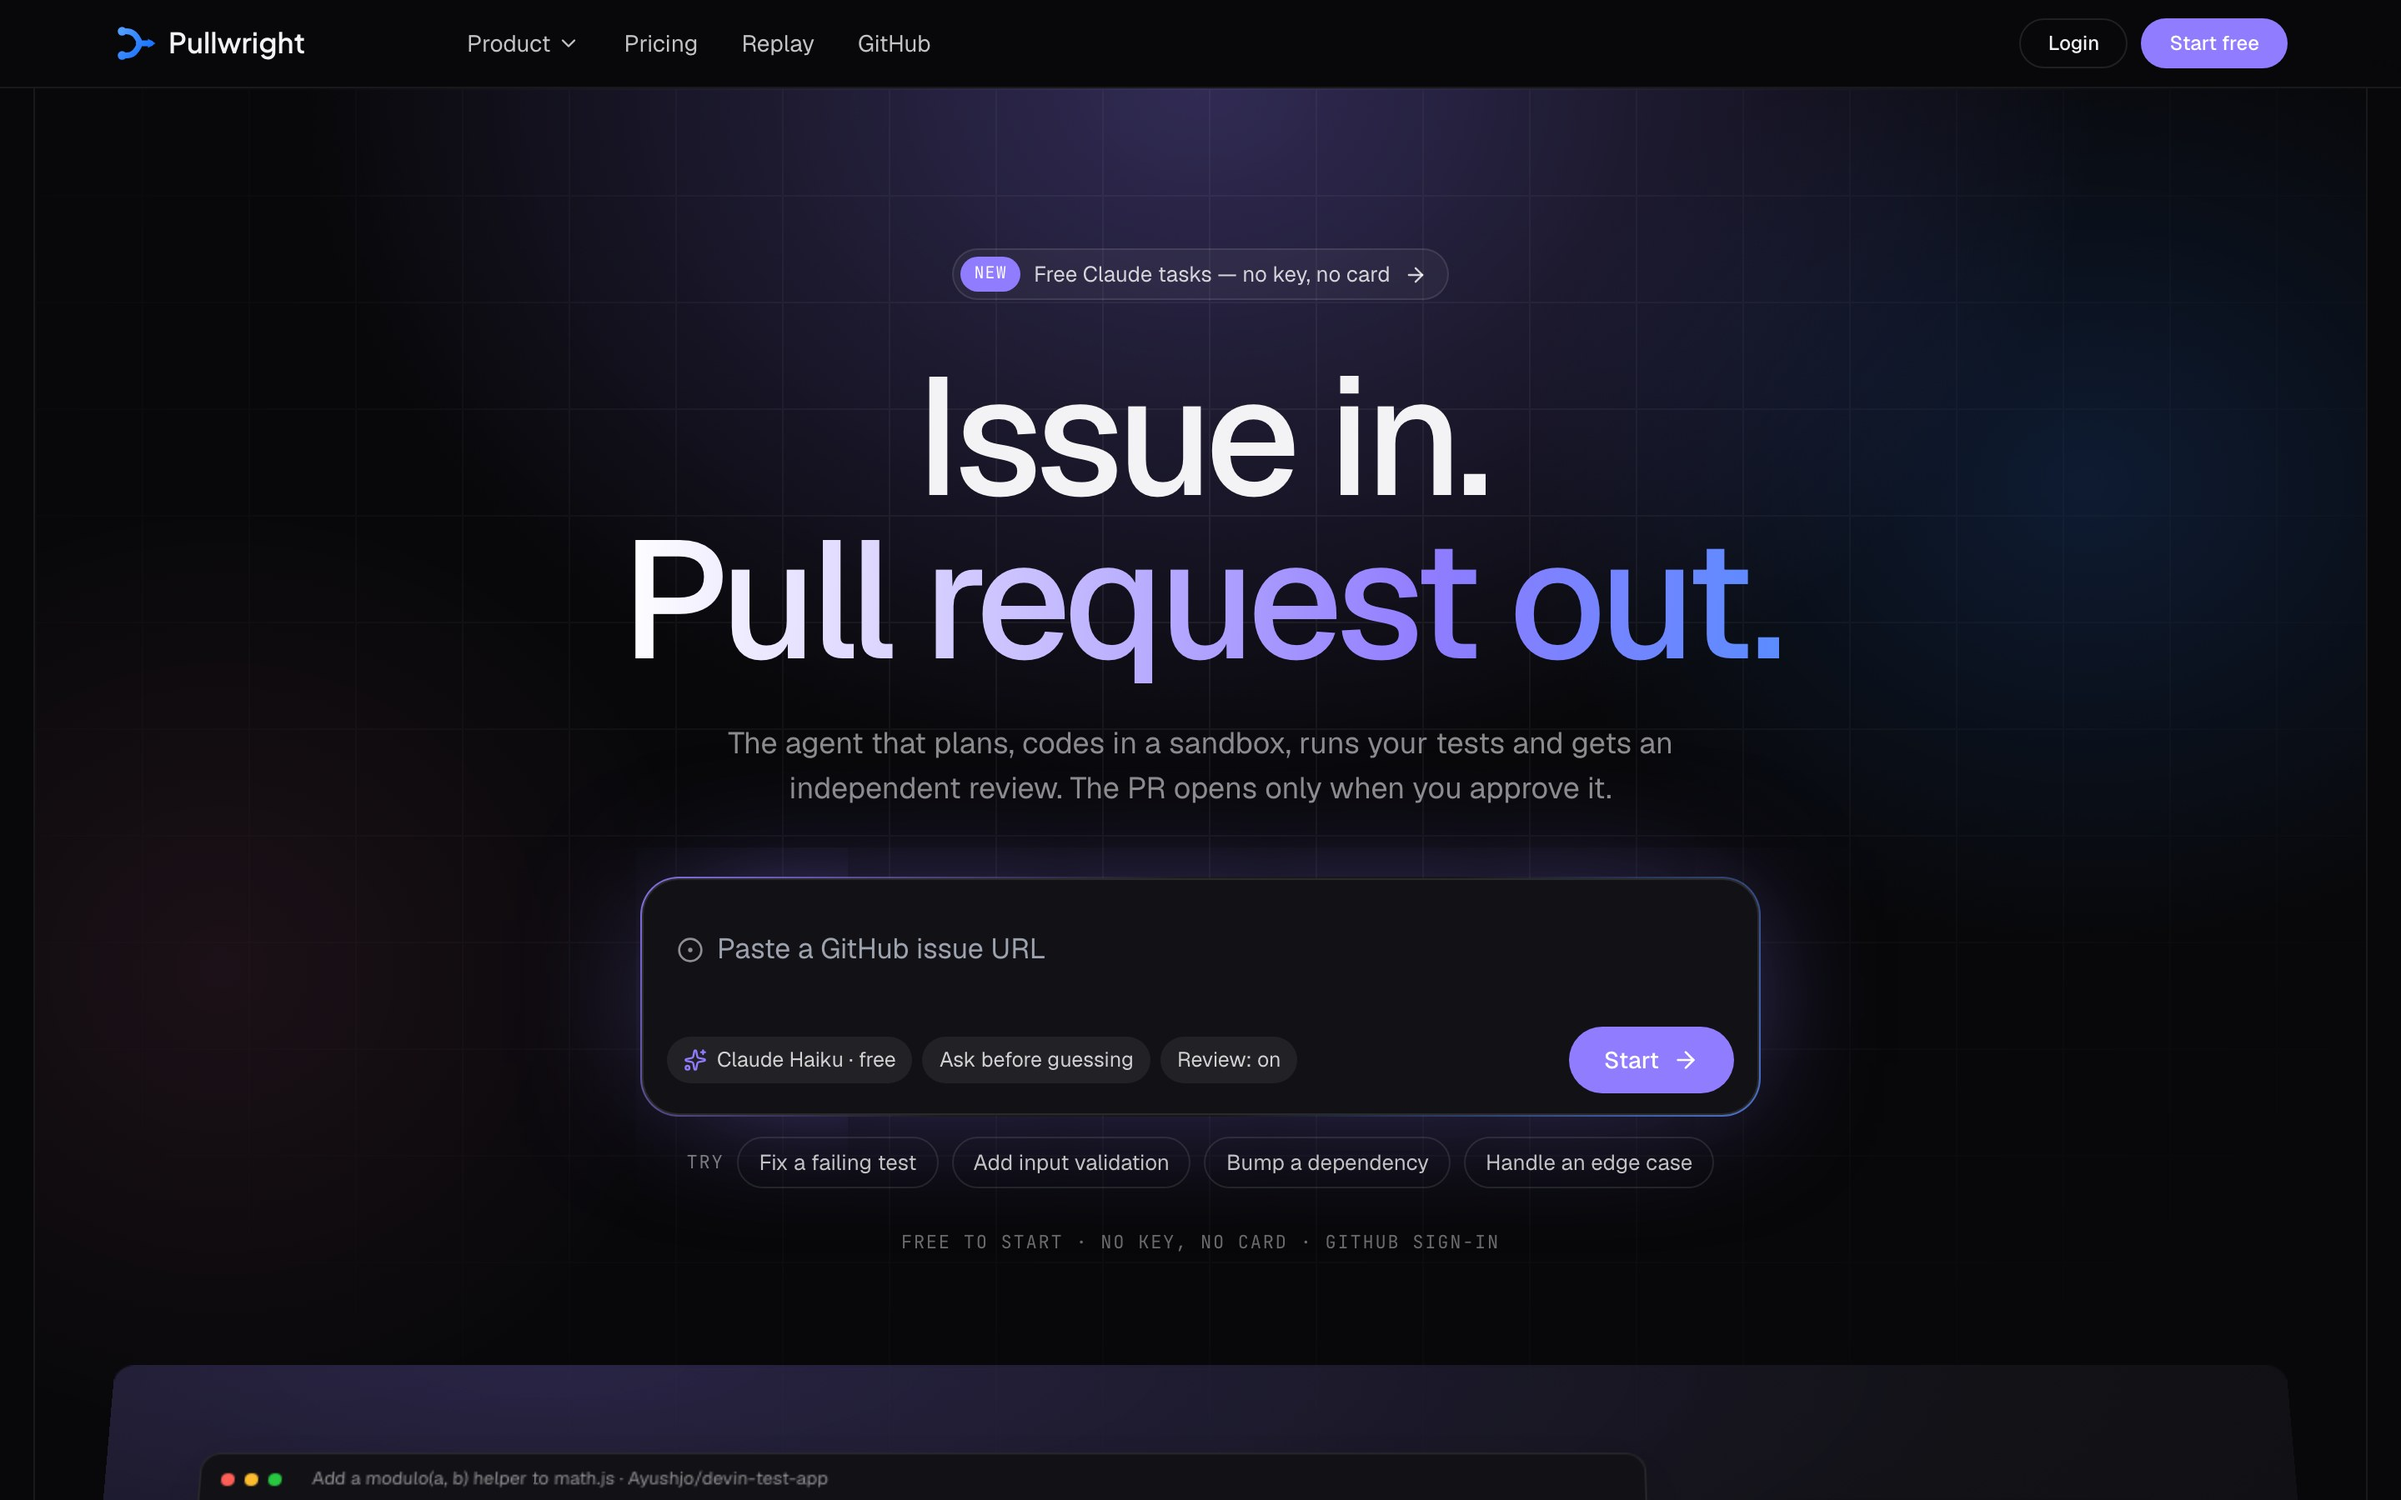
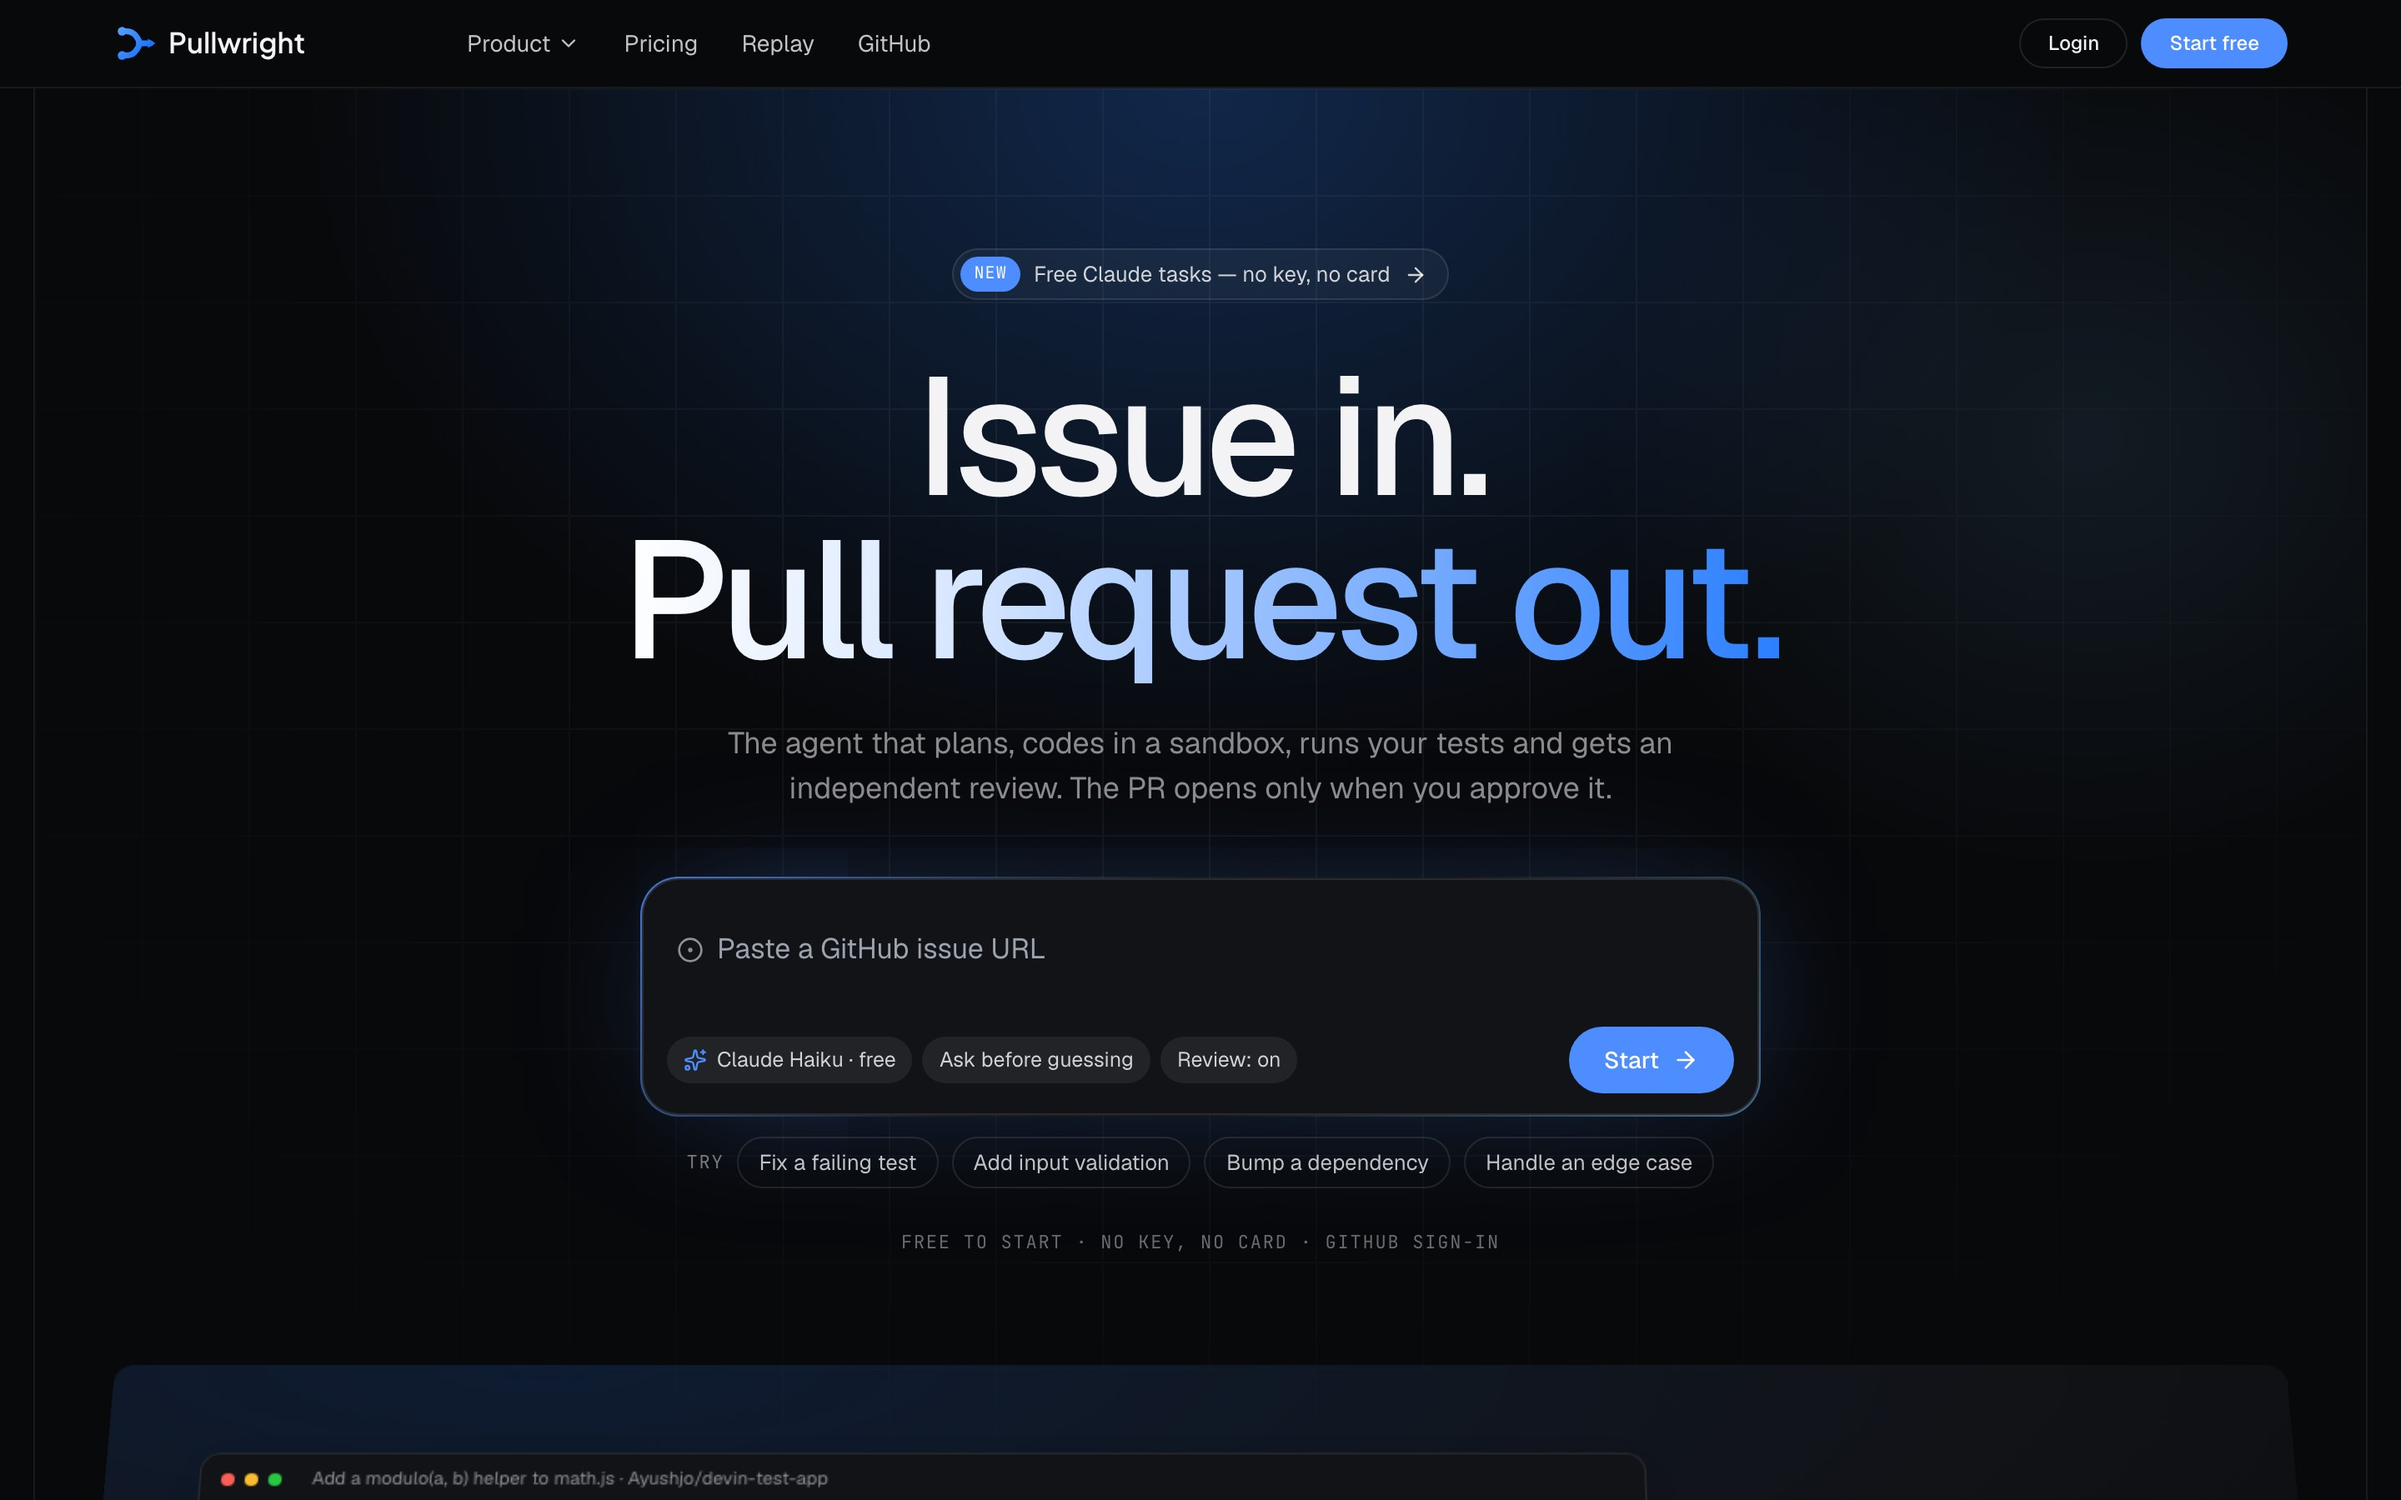
Landing lab: Midnight without the purple — brand blue (V6), ember (V8) and graphite with a green signal (V9); glow and accents driven by theme variables, softer glow, dark-safe diff and status greens

diff --git a/frontend/src/pages/LandingLab.tsx b/frontend/src/pages/LandingLab.tsx
@@ -339,12 +339,28 @@ const THEMES: Record<string, React.CSSProperties> = {
     '--font-sans': "'Inter Tight', system-ui, sans-serif",
   } as React.CSSProperties,
   midnight: {
-    '--background': '#08080a', '--background-rgb': '8 8 10', '--foreground': '#f3f3f5', '--foreground-rgb': '243 243 245',
-    '--card': '#121216', '--card-foreground': '#f3f3f5', '--popover': '#121216', '--popover-foreground': '#f3f3f5',
-    '--secondary': '#1b1b21', '--muted': '#1b1b21', '--elevated': '#1b1b21', '--accent': '#1b1b21', '--input': '#26262c',
-    '--primary': '#8f7cff', '--primary-rgb': '143 124 255', '--ring': '#8f7cff',
+    '--background': '#08090b', '--background-rgb': '8 9 11', '--foreground': '#f3f3f5', '--foreground-rgb': '243 243 245',
+    '--card': '#111317', '--card-foreground': '#f3f3f5', '--popover': '#111317', '--popover-foreground': '#f3f3f5',
+    '--secondary': '#1b1b1f', '--muted': '#1b1b1f', '--elevated': '#1b1b1f', '--accent': '#1b1b1f', '--input': '#26262b',
+    '--primary': '#4d8dff', '--primary-rgb': '77 141 255', '--primary-foreground': '#ffffff', '--ring': '#4d8dff',
     '--muted-foreground': 'rgba(243,243,245,.56)', '--faint': 'rgba(243,243,245,.36)', '--hairline': 'rgba(255,255,255,.07)', '--border': 'rgba(255,255,255,.1)',
-    '--font-sans': "'Geist', system-ui, sans-serif",
+    '--font-sans': "'Geist', system-ui, sans-serif", '--g1': '43 127 255', '--g2': '110 190 255', '--g1a': '.26', '--grad': 'linear-gradient(92deg, #ffffff 0%, #d6e6ff 30%, #7fb0ff 65%, #2b7fff 100%)',
+  } as React.CSSProperties,
+  ember: {
+    '--background': '#0b0a09', '--background-rgb': '11 10 9', '--foreground': '#f3f3f5', '--foreground-rgb': '243 243 245',
+    '--card': '#151310', '--card-foreground': '#f3f3f5', '--popover': '#151310', '--popover-foreground': '#f3f3f5',
+    '--secondary': '#1b1b1f', '--muted': '#1b1b1f', '--elevated': '#1b1b1f', '--accent': '#1b1b1f', '--input': '#26262b',
+    '--primary': '#ff7a3d', '--primary-rgb': '255 122 61', '--primary-foreground': '#140802', '--ring': '#ff7a3d',
+    '--muted-foreground': 'rgba(243,243,245,.56)', '--faint': 'rgba(243,243,245,.36)', '--hairline': 'rgba(255,255,255,.07)', '--border': 'rgba(255,255,255,.1)',
+    '--font-sans': "'Geist', system-ui, sans-serif", '--g1': '255 106 43', '--g2': '255 184 92', '--g1a': '.22', '--grad': 'linear-gradient(92deg, #ffffff 0%, #ffe2c8 30%, #ffa065 65%, #ff6a2b 100%)',
+  } as React.CSSProperties,
+  graphite: {
+    '--background': '#09090a', '--background-rgb': '9 9 10', '--foreground': '#f3f3f5', '--foreground-rgb': '243 243 245',
+    '--card': '#121214', '--card-foreground': '#f3f3f5', '--popover': '#121214', '--popover-foreground': '#f3f3f5',
+    '--secondary': '#1b1b1f', '--muted': '#1b1b1f', '--elevated': '#1b1b1f', '--accent': '#1b1b1f', '--input': '#26262b',
+    '--primary': '#3ddc84', '--primary-rgb': '61 220 132', '--primary-foreground': '#03140a', '--ring': '#3ddc84',
+    '--muted-foreground': 'rgba(243,243,245,.56)', '--faint': 'rgba(243,243,245,.36)', '--hairline': 'rgba(255,255,255,.07)', '--border': 'rgba(255,255,255,.1)',
+    '--font-sans': "'Geist', system-ui, sans-serif", '--g1': '255 255 255', '--g2': '255 255 255', '--g1a': '.07', '--grad': 'linear-gradient(180deg, #ffffff 0%, #ffffff 40%, #8b8b93 100%)',
   } as React.CSSProperties,
   signal: {
     '--background': '#ecebe7', '--background-rgb': '236 235 231', '--foreground': '#0d0d0d', '--foreground-rgb': '13 13 13',
@@ -355,13 +371,16 @@ const THEMES: Record<string, React.CSSProperties> = {
 }
 
 const THEME_CSS = `
-.theme-ink, .theme-midnight, .theme-signal { font-family: var(--font-sans); }
+.theme-ink, .theme-dark, .theme-signal { font-family: var(--font-sans); }
 .theme-ink h1, .theme-ink h2 { font-family: 'Instrument Serif', Georgia, serif; font-weight: 400; letter-spacing: -0.015em; }
 .theme-ink h2 { font-size: clamp(2.3rem, 4.4vw, 3.6rem); line-height: 1.02; }
 .theme-ink [class*="bg-[radial-gradient"] { background: radial-gradient(120% 90% at 15% 0%, #f2d9c2 0%, #ece2d2 48%, #e5ddcf 100%) !important; }
-.theme-midnight h1, .theme-midnight h2 { font-weight: 500; letter-spacing: -0.04em; }
-.theme-midnight [class*="bg-[radial-gradient"] { background: radial-gradient(120% 90% at 20% 0%, rgba(143,124,255,.24) 0%, #121217 55%, #0d0d11 100%) !important; }
-.theme-midnight [class*="border-black/"] { border-color: rgba(255,255,255,.1) !important; }
+.theme-dark h1, .theme-dark h2 { font-weight: 500; letter-spacing: -0.04em; }
+.theme-dark [class*="bg-[radial-gradient"] { background: radial-gradient(120% 90% at 20% 0%, rgb(var(--g1) / .16) 0%, var(--card) 55%, var(--background) 100%) !important; }
+.theme-dark .bg-green-50 { background: rgba(61,220,132,.1) !important; }
+.theme-dark .border-green-200 { border-color: rgba(61,220,132,.28) !important; }
+.theme-dark .text-green-900 { color: #a6f0c6 !important; }
+.theme-dark [class*="border-black/"] { border-color: rgba(255,255,255,.1) !important; }
 .theme-signal h1, .theme-signal h2 { font-family: 'Space Grotesk', sans-serif; text-transform: uppercase; font-weight: 500; letter-spacing: -0.045em; line-height: .95; }
 .theme-signal .font-mono { font-family: 'Geist Mono', monospace; }
 .theme-signal [class*="bg-[radial-gradient"] { background: #dfded9 radial-gradient(rgba(13,13,13,.16) 1px, transparent 1px) 0 0 / 14px 14px !important; }
@@ -450,16 +469,16 @@ function HeroMidnight() {
   const [url, setUrl] = useState('')
   return (
     <section className="relative overflow-hidden">
-      <div aria-hidden className="pointer-events-none absolute inset-0" style={{ background: 'radial-gradient(55% 45% at 50% 0%, rgba(143,124,255,.30), transparent 70%), radial-gradient(35% 30% at 88% 18%, rgba(43,127,255,.16), transparent 70%), radial-gradient(30% 30% at 8% 40%, rgba(255,120,180,.08), transparent 70%)' }} />
+      <div aria-hidden className="pointer-events-none absolute inset-0" style={{ background: 'radial-gradient(55% 45% at 50% 0%, rgb(var(--g1) / var(--g1a)), transparent 70%), radial-gradient(30% 28% at 88% 16%, rgb(var(--g2) / .10), transparent 70%)' }} />
       <div aria-hidden className="pointer-events-none absolute inset-0 opacity-[0.06]" style={{ backgroundImage: 'linear-gradient(white 1px, transparent 1px), linear-gradient(90deg, white 1px, transparent 1px)', backgroundSize: '64px 64px', maskImage: 'radial-gradient(60% 50% at 50% 20%, black, transparent)', WebkitMaskImage: 'radial-gradient(60% 50% at 50% 20%, black, transparent)' }} />
       <div className="relative px-gutter pb-6 pt-16 text-center md:px-12 md:pt-24">
         <Announce dark />
         <h1 className="mx-auto mt-8 max-w-5xl text-balance text-[clamp(3rem,7.4vw,6.25rem)] leading-[0.98] text-foreground">
           Issue in. <br />
-          <span className="bg-clip-text text-transparent" style={{ backgroundImage: 'linear-gradient(92deg, #ffffff 0%, #c9c0ff 35%, #8f7cff 70%, #5b8cff 100%)' }}>Pull request out.</span>
+          <span className="bg-clip-text text-transparent" style={{ backgroundImage: 'var(--grad)' }}>Pull request out.</span>
         </h1>
         <p className="mx-auto mt-6 max-w-xl text-lead text-muted-foreground">The agent that plans, codes in a sandbox, runs your tests and gets an independent review. The PR opens only when you approve it.</p>
-        <div className="mx-auto mt-10 max-w-2xl rounded-[23px] p-px shadow-[0_0_90px_-25px_rgba(143,124,255,.75)]" style={{ background: 'linear-gradient(135deg, rgba(143,124,255,.9), rgba(255,255,255,.08) 40%, rgba(255,255,255,.06) 60%, rgba(91,140,255,.8))' }}>
+        <div className="mx-auto mt-10 max-w-2xl rounded-[23px] p-px" style={{ background: 'linear-gradient(135deg, rgb(var(--primary-rgb) / .85), rgba(255,255,255,.08) 40%, rgba(255,255,255,.06) 60%, rgb(var(--g2) / .55))', boxShadow: '0 0 90px -30px rgb(var(--primary-rgb) / .6)' }}>
           <PromptCard dark value={url} onChange={setUrl} />
         </div>
         <Chips dark center onPick={() => setUrl(DEMO_ISSUE)} />
@@ -573,11 +592,12 @@ export default function LandingLab() {
         <Frame>{rest}</Frame>
       </div>
     )
-  const theme = ({ '5': 'ink', '6': 'midnight', '7': 'signal' } as Record<string, string>)[v]
+  const theme = ({ '5': 'ink', '6': 'midnight', '7': 'signal', '8': 'ember', '9': 'graphite' } as Record<string, string>)[v]
+  const dark = theme === 'midnight' || theme === 'ember' || theme === 'graphite'
   const hero =
-    v === '2' ? <HeroPrompt /> : v === '4' ? <><HeroPrompt topOnly /><ShotAndStats /></> : v === '5' ? <HeroInk /> : v === '6' ? <HeroMidnight /> : v === '7' ? <HeroSignal /> : <HeroRefined />
+    v === '2' ? <HeroPrompt /> : v === '4' ? <><HeroPrompt topOnly /><ShotAndStats /></> : v === '5' ? <HeroInk /> : v === '6' || v === '8' || v === '9' ? <HeroMidnight /> : v === '7' ? <HeroSignal /> : <HeroRefined />
   return (
-    <div className={cn('min-h-screen bg-background text-foreground', theme && `theme-${theme}`)} style={theme ? THEMES[theme] : undefined}>
+    <div className={cn('min-h-screen bg-background text-foreground', theme && `theme-${theme}`, dark && 'theme-dark')} style={theme ? THEMES[theme] : undefined}>
       {theme && <style>{THEME_CSS}</style>}
       <SiteNav />
       <Frame>
